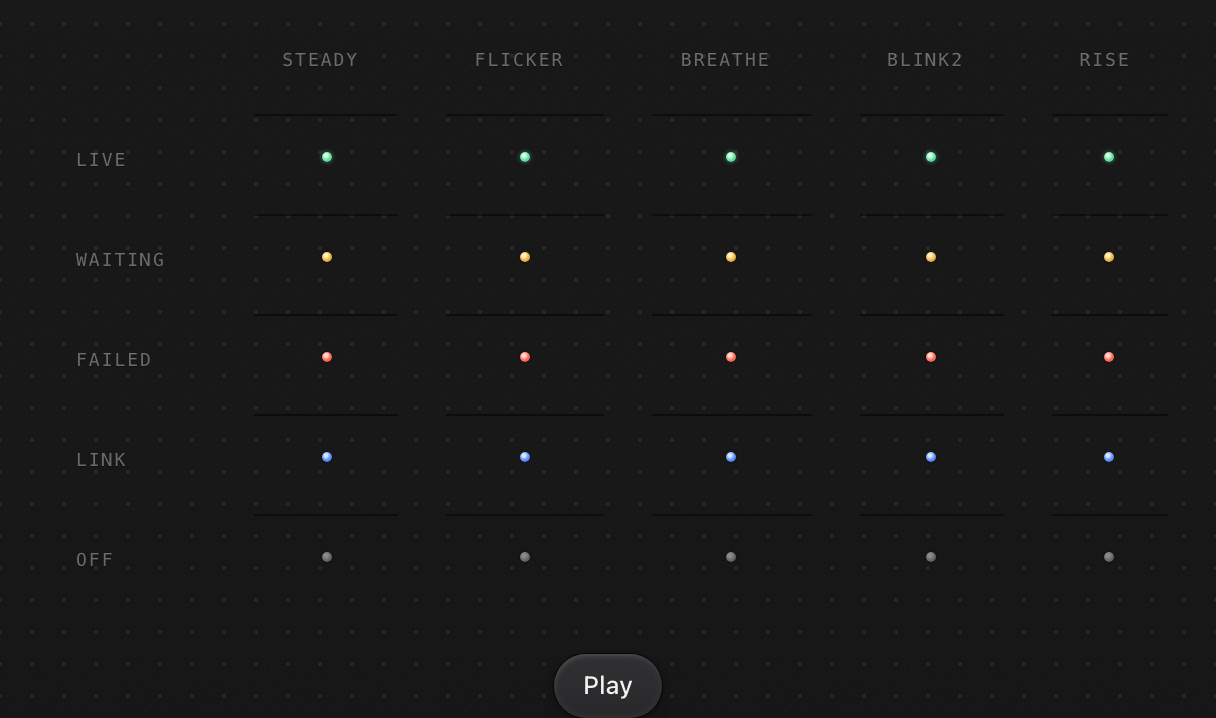
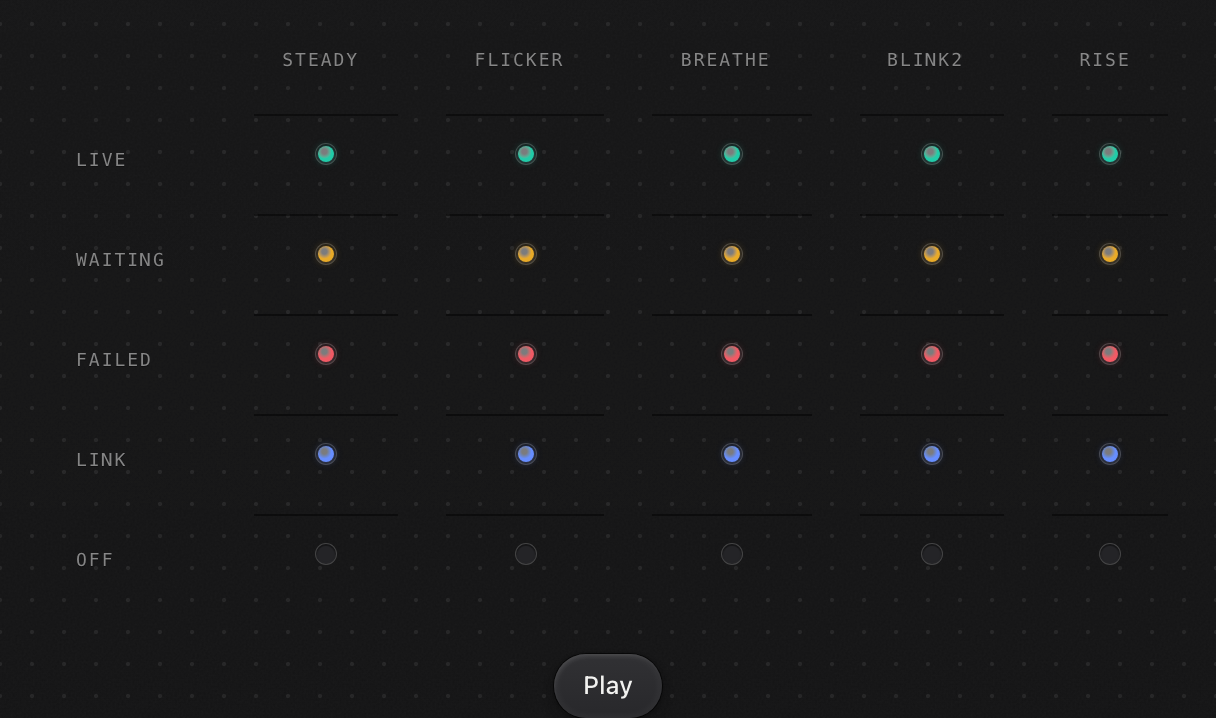
feat(led): sink readable lamps into an opaque socket

diff --git a/swift/Sources/MetalUI/Components/MetalStatus.swift b/swift/Sources/MetalUI/Components/MetalStatus.swift
@@ -25,22 +25,25 @@ public struct MetalLED: View {
     public enum Size: Sendable { case `default`, small }
     let kind: MetalLEDKind
     let size: Size
+    /// Optional outer diameter, including the socket, for a host-specific footprint.
     let diameter: CGFloat?
-    let gesture: MetalLampGesture
-    /// A fixed point in the gesture (0–1), for captures; nil plays it in time.
+    let gesture: MetalLampGesture?
     let phase: Double?
     @Environment(\.accessibilityReduceMotion) private var reduceMotion
+    @Environment(\.scenePhase) private var scenePhase
+    @Environment(\.metalColorway) private var colorway
     @State private var start = Date()
+    @State private var finished = false
+    @State private var visible = false
 
-    public init(_ kind: MetalLEDKind, size: Size = .default, diameter: CGFloat? = nil, gesture: MetalLampGesture = .steady, phase: Double? = nil) {
-        self.kind = kind
-        self.size = size
-        self.diameter = diameter
-        self.gesture = gesture
-        self.phase = phase
+    public init(_ kind: MetalLEDKind, size: Size = .default, diameter: CGFloat? = nil, gesture: MetalLampGesture? = nil, phase: Double? = nil) {
+        self.kind = kind; self.size = size; self.diameter = diameter
+        self.gesture = gesture; self.phase = phase
     }
-
-    /// The lamp's level (0 dark lens … 1 lit) at a point in the gesture.
+    private var motion: MetalLampGesture {
+        if kind == .off { return .steady }
+        return gesture ?? (kind == .waiting ? .breathe : kind == .failed ? .blink2 : .steady)
+    }
     static func level(_ gesture: MetalLampGesture, at progress: Double) -> Double {
         let keys = gesture.keys, p = min(1, max(0, progress))
         guard let hi = keys.firstIndex(where: { $0.0 >= p }), hi > 0 else { return keys.first?.1 ?? 1 }
@@ -49,32 +52,41 @@ public struct MetalLED: View {
         if gesture.eased { f = f * f * (3 - 2 * f) }
         return l0 + (l1 - l0) * f
     }
-
-    /// A dimmed lamp's saturation, and the shade over it: the web's brightness() and saturate() at this level.
     static func saturation(at level: Double) -> Double { MetalLampDim.saturate + (1 - MetalLampDim.saturate) * level }
     static func shade(at level: Double) -> Double { (1 - MetalLampDim.brightness) * (1 - level) }
 
     public var body: some View {
         let recipe = MetalRecipes.status
-        let d = diameter ?? recipe.points(size == .small ? "led.size-small" : "led.size")
-        let still = gesture.duration == 0 || reduceMotion
-        TimelineView(.animation(paused: still || phase != nil)) { context in
+        let bezel = recipe.points("lamp.bezel")
+        let d = diameter ?? recipe.points(size == .small ? "lamp.size-small" : "lamp.size") + bezel * 2
+        let lensSize = max(CGFloat.zero, d - bezel * 2)
+        let ink = recipe.color("ink.\(kind.recipeState)", colorway: MetalRecipeColorway(colorway)) ?? colorway.tokens.ink
+        let still = motion.duration == 0 || reduceMotion || finished
+        TimelineView(.animation(paused: still || phase != nil || !visible || scenePhase != .active)) { context in
             let progress: Double = {
+                if reduceMotion { return 1 }
                 if let phase { return phase }
                 if still { return 1 }
-                let t = context.date.timeIntervalSince(start) / gesture.duration
-                return gesture.loops ? t.truncatingRemainder(dividingBy: 1) : min(1, t)
+                let t = context.date.timeIntervalSince(start) / motion.duration
+                return motion.loops ? t.truncatingRemainder(dividingBy: 1) : min(1, t)
             }()
-            let level = Self.level(gesture, at: progress)
+            let opacity = MetalLampDim.brightness + (1 - MetalLampDim.brightness) * Self.level(motion, at: progress)
             Color.clear
-                .frame(width: d, height: d)
-                .metalObjectRecipe(recipe, part: "led", state: kind.recipeState, in: Circle())
-                .saturation(Self.saturation(at: level))
-                .overlay(Circle().fill(Color.black.opacity(Self.shade(at: level))))
+                .frame(width: lensSize, height: lensSize)
+                .background {
+                    if kind == .off { Circle().fill(ink.color) }
+                    else { Color.clear.metalObjectRecipe(recipe, part: "lamp", in: Circle(), self: ink).opacity(opacity) }
+                }
+                .padding(bezel)
+                .metalObjectRecipe(recipe, part: "socket", in: Circle(), self: recipe.color("ink.off", colorway: MetalRecipeColorway(colorway)))
         }
-        .id("\(kind.recipeState)-\(gesture.rawValue)")
-        .onChange(of: gesture) { start = Date() }
-        .onChange(of: kind.recipeState) { start = Date() }
+        .onAppear { visible = true }
+        .onDisappear { visible = false }
+        .task(id: "\(kind.recipeState)-\(motion.rawValue)-\(reduceMotion)") {
+            start = Date(); finished = false
+            guard motion.duration > 0, !motion.loops, !reduceMotion, phase == nil else { return }
+            do { try await Task.sleep(for: .seconds(motion.duration)); finished = true } catch { }
+        }
         .accessibilityHidden(true)
     }
 }

diff --git a/packages/metalui/src/components/led/led.tsx b/packages/metalui/src/components/led/led.tsx
@@ -2,54 +2,38 @@
 
 import * as React from 'react';
 import { useAwake } from '../../motion/awake';
-
-/* LED (the reference design's .led-*): a tiny lamp lit from the top left that says one state by colour.
- * A part: it never stands alone, it sits beside words (a status badge, a readout, an engraving).
- * Styled with the theme's utilities (the status recipe). */
+import { useReducedMotion } from '../../motion/reduced';
 
 export type LedKind = 'live' | 'waiting' | 'failed' | 'link' | 'off';
-/** How the lamp behaves over time (tokens status.gestures). */
 export type LedGesture = 'steady' | 'flicker' | 'breathe' | 'blink2' | 'rise';
-
 export interface LedProps extends React.HTMLAttributes<HTMLSpanElement> {
   kind: LedKind;
-  /** 5 (default) or 4 (small). */
+  /** Lens diameter 8 (default) or 6 (small), plus a 1px socket on each side. */
   size?: 'default' | 'small';
-  /**
-   * How it behaves over time: steady (default); flicker, a burst of activity that settles on;
-   * breathe, a loop while something is in progress; blink2, two flashes for a failure; rise, coming
-   * on slowly. Changing the gesture plays it again. Reduced motion holds the lamp steady.
-   */
+  /** Defaults to waiting=breathe, failed=blink2, otherwise steady. Off always stays dark. */
   gesture?: LedGesture;
 }
-
-const LED = 'mu-led inline-block flex-none rounded-round';
-const LED_SIZES = {
-  default: 'size-status-led-size',
-  small: 'size-status-led-size-small',
+const GESTURES: Record<LedGesture, string> = {
+  steady: '', flicker: 'animate-led-flicker', breathe: 'animate-led-breathe',
+  blink2: 'animate-led-blink2', rise: 'animate-led-rise',
 };
-const LED_KINDS: Record<LedKind, string> = {
-  live: 'recipe-status-led-live',
-  waiting: 'recipe-status-led recipe-status-led-waiting',
-  failed: 'recipe-status-led recipe-status-led-failed',
-  link: 'recipe-status-led recipe-status-led-link',
-  off: 'recipe-status-led-off',
-};
+const SIZES = { default: 'size-status-lamp-size', small: 'size-status-lamp-size-small' };
 
-const LED_GESTURES: Record<LedGesture, string> = {
-  steady: '',
-  flicker: 'animate-led-flicker',
-  breathe: 'animate-led-breathe',
-  blink2: 'animate-led-blink2',
-  rise: 'animate-led-rise',
-};
-
-/** A tiny lamp, lit from the top left. Decorative: pair it with words. */
-export function Led({ kind, size = 'default', gesture = 'steady', className, style, ...props }: LedProps) {
-  // A breathing lamp loops forever, so it holds still while the tab is hidden or the lamp is scrolled away.
+/** Decorative lens inside an opaque socket. Words beside it carry the state. */
+export function Led({ kind, size = 'default', gesture, className, style, ...props }: LedProps) {
+  const [element, setElement] = React.useState<HTMLSpanElement | null>(null);
+  const reduced = useReducedMotion(element);
   const [watch, awake] = useAwake();
-  const own = `${LED} ${LED_SIZES[size]} ${LED_KINDS[kind]} ${LED_GESTURES[gesture]} reduced-motion:animate-none`;
-  // A new gesture (or a new state with the same gesture) remounts the lamp so the gesture plays again.
-  const looping = gesture === 'breathe';
-  return <span key={`${kind}-${gesture}`} ref={looping ? watch : undefined} aria-hidden data-kind={kind} data-size={size} data-gesture={gesture} className={className ? `${own} ${className}` : own} style={looping && !awake ? { ...style, animationPlayState: 'paused' } : style} {...props} />;
+  const motion = kind === 'off' ? 'steady' : gesture ?? (kind === 'waiting' ? 'breathe' : kind === 'failed' ? 'blink2' : 'steady');
+  const ref = React.useCallback((node: HTMLSpanElement | null) => { setElement(node); watch(node); }, [watch]);
+  const ink = `var(--mu-r-status-ink-${kind})`;
+  return (
+    <span ref={ref} data-mu-self="" aria-hidden data-kind={kind} data-size={size} data-gesture={motion}
+      className={`mu-led inline-flex flex-none rounded-round p-status-lamp-bezel recipe-status-socket ${className ?? ''}`}
+      style={{ '--mu-self': 'var(--mu-r-status-ink-off)', ...style } as React.CSSProperties} {...props}>
+      <span key={`${kind}-${motion}-${reduced}`} data-lamp data-mu-self=""
+        className={`inline-block flex-none rounded-round ${SIZES[size]} ${kind === 'off' ? 'recipe-status-lamp-off' : 'recipe-status-lamp'} ${reduced ? '' : GESTURES[motion]}`}
+        style={{ '--mu-self': ink, animationPlayState: awake ? 'running' : 'paused' } as React.CSSProperties} />
+    </span>
+  );
 }

diff --git a/e2e/led.spec.ts b/e2e/led.spec.ts
@@ -6,7 +6,7 @@ import { COLORWAYS, capture, open } from './helpers';
 const cell = (page: import('@playwright/test').Page, kind: string, gesture: string) =>
   page.locator(`[data-cell="${kind}-${gesture}"] [data-gesture]`);
 const timing = (loc: import('@playwright/test').Locator) =>
-  loc.evaluate((el) => el.getAnimations().map((a) => {
+  loc.evaluate((el) => el.getAnimations({ subtree: true }).map((a) => {
     const t = (a.effect as KeyframeEffect).getTiming();
     return { duration: t.duration, iterations: t.iterations, name: (a as CSSAnimation).animationName };
   }));
@@ -27,9 +27,9 @@ test('Play runs a finished gesture again', async ({ page }) => {
   await open(page, '/components/led', 'graphite');
   const flicker = cell(page, 'live', 'flicker');
   await page.waitForTimeout(900);
-  expect(await flicker.evaluate((el) => el.getAnimations()[0]?.playState)).toBe('finished');
+  expect(await flicker.evaluate((el) => el.getAnimations({ subtree: true })[0]?.playState)).toBe('finished');
   await page.getByTestId('led-play').click();
-  expect(await cell(page, 'live', 'flicker').evaluate((el) => el.getAnimations()[0]?.playState)).toBe('running');
+  expect(await cell(page, 'live', 'flicker').evaluate((el) => el.getAnimations({ subtree: true })[0]?.playState)).toBe('running');
 });
 
 test('reduced motion holds every lamp steady and keeps its kind', async ({ page }) => {
@@ -46,3 +46,19 @@ for (const colorway of COLORWAYS) {
     await page.getByTestId('led-gestures').screenshot({ path: capture(`led-gestures-${colorway}`) });
   });
 }
+
+test('socket stays opaque while only the lens dims, including scoped reduction', async ({ page }) => {
+  await open(page, '/components/led', 'bone');
+  const lamp = cell(page, 'waiting', 'breathe');
+  const layers = await lamp.evaluate(el => ({
+    width: el.getBoundingClientRect().width,
+    socket: (() => { const c = document.createElement('canvas').getContext('2d')!; c.fillStyle = getComputedStyle(el).backgroundColor; c.fillRect(0, 0, 1, 1); return [...c.getImageData(0, 0, 1, 1).data]; })(),
+    lens: el.querySelector('[data-lamp]')!.getBoundingClientRect().width,
+    filter: getComputedStyle(el.querySelector('[data-lamp]')!).filter,
+  }));
+  expect(layers).toEqual({ width: 10, socket: [36, 36, 39, 255], lens: 8, filter: 'none' });
+  await page.getByTestId('led-gestures').evaluate(el => el.setAttribute('data-mu-motion', 'reduce'));
+  await expect.poll(() => timing(lamp)).toEqual([]);
+  await expect(lamp.locator('[data-lamp]')).toHaveCSS('opacity', '1');
+  await expect(cell(page, 'off', 'steady').locator('[data-lamp]')).toHaveCSS('box-shadow', 'none');
+});

diff --git a/packages/metalui/src/components/theme.css b/packages/metalui/src/components/theme.css
@@ -3776,42 +3776,42 @@
 
 /* Lamp gestures (status.gestures): how an LED behaves over time. */
 @keyframes mu-led-flicker {
-  0% { filter: brightness(0.864) saturate(0.901); }
-  10% { filter: brightness(1) saturate(1); }
-  22% { filter: brightness(0.69) saturate(0.775); }
-  34% { filter: brightness(1) saturate(1); }
-  46% { filter: brightness(0.764) saturate(0.829); }
-  60% { filter: brightness(1) saturate(1); }
-  100% { filter: brightness(1) saturate(1); }
+  0% { opacity: 0.864; }
+  10% { opacity: 1; }
+  22% { opacity: 0.69; }
+  34% { opacity: 1; }
+  46% { opacity: 0.764; }
+  60% { opacity: 1; }
+  100% { opacity: 1; }
 }
 @utility animate-led-flicker {
   animation: mu-led-flicker 800ms linear both;
 }
 @keyframes mu-led-breathe {
-  0% { filter: brightness(0.721) saturate(0.798); }
-  50% { filter: brightness(1) saturate(1); }
-  100% { filter: brightness(0.721) saturate(0.798); }
+  0% { opacity: 0.721; }
+  50% { opacity: 1; }
+  100% { opacity: 0.721; }
 }
 @utility animate-led-breathe {
   animation: mu-led-breathe 2400ms ease-in-out infinite;
 }
 @keyframes mu-led-blink2 {
-  0% { filter: brightness(1) saturate(1); }
-  19% { filter: brightness(1) saturate(1); }
-  20% { filter: brightness(0.535) saturate(0.663); }
-  50% { filter: brightness(0.535) saturate(0.663); }
-  51% { filter: brightness(1) saturate(1); }
-  70% { filter: brightness(1) saturate(1); }
-  71% { filter: brightness(0.535) saturate(0.663); }
-  99% { filter: brightness(0.535) saturate(0.663); }
-  100% { filter: brightness(1) saturate(1); }
+  0% { opacity: 1; }
+  19% { opacity: 1; }
+  20% { opacity: 0.535; }
+  50% { opacity: 0.535; }
+  51% { opacity: 1; }
+  70% { opacity: 1; }
+  71% { opacity: 0.535; }
+  99% { opacity: 0.535; }
+  100% { opacity: 1; }
 }
 @utility animate-led-blink2 {
   animation: mu-led-blink2 460ms linear both;
 }
 @keyframes mu-led-rise {
-  0% { filter: brightness(0.38) saturate(0.55); }
-  100% { filter: brightness(1) saturate(1); }
+  0% { opacity: 0.38; }
+  100% { opacity: 1; }
 }
 @utility animate-led-rise {
   animation: mu-led-rise 1200ms cubic-bezier(.22,1,.36,1) both;

diff --git a/packages/metalui/public/AI.md b/packages/metalui/public/AI.md
@@ -1925,21 +1925,21 @@ A tiny lamp lit from the top left that says one state by colour. React: `Led` fr
 | link | blue | points somewhere else |
 | off | grey | idle |
 
-Sizes: 5 (default) and 4 (small, in dense readouts).
+Lens sizes: 8 (default) and 6 (small). An opaque #242427 socket adds 1 on each side: total footprints 10 and 8. Every lit kind has the same soft halo; off is a dull, unlit socket. Shared inks are in `recipes.status.props.ink`; measured contrast and colour-vision limitations are in `docs/STATUS-COLORS.md`.
 
 ## Gestures
 
-How the lamp behaves over time (tokens `status.gestures`). A gesture dims and brightens the lamp's glow; it never fades the lamp away.
+How the lamp behaves over time (tokens `status.gestures`). Only the inner lens and halo animate opacity, down to the shared dim level. The opaque socket never fades. Waiting breathes by default; failure double-blinks once; live and link hold steady; off stays dark.
 
 | Gesture | Behaviour | Use it for |
 |---|---|---|
-| steady | holds | the default: a state that simply is |
+| steady | holds | live or link: a state that simply is |
 | flicker | one burst of activity (0.8 s), then on | something just happened: a sync finished, a value arrived |
 | breathe | a slow loop (2.4 s) | something in progress: syncing, searching |
 | blink2 | two sharp flashes, then on | a failure, once; never repeat it |
 | rise | comes on slowly (1.2 s) | a first start, a machine waking |
 
-Reduced motion holds every gesture at its final level, so the colour still says the state. Changing the gesture, or the kind, plays it again.
+Reduced motion (OS, html.rm or scoped data-mu-motion=reduce) holds every gesture at its final level. Words still identify the state. Offscreen and hidden web lamps pause; native lamps stop their frame clock while inactive or absent, and after a finite gesture completes. Changing the gesture, or the kind, plays it again.
 
 ## API
 

diff --git a/packages/metalui/public/r/led.md b/packages/metalui/public/r/led.md
@@ -21,21 +21,21 @@ A tiny lamp lit from the top left that says one state by colour. React: `Led` fr
 | link | blue | points somewhere else |
 | off | grey | idle |
 
-Sizes: 5 (default) and 4 (small, in dense readouts).
+Lens sizes: 8 (default) and 6 (small). An opaque #242427 socket adds 1 on each side: total footprints 10 and 8. Every lit kind has the same soft halo; off is a dull, unlit socket. Shared inks are in `recipes.status.props.ink`; measured contrast and colour-vision limitations are in `docs/STATUS-COLORS.md`.
 
 ## Gestures
 
-How the lamp behaves over time (tokens `status.gestures`). A gesture dims and brightens the lamp's glow; it never fades the lamp away.
+How the lamp behaves over time (tokens `status.gestures`). Only the inner lens and halo animate opacity, down to the shared dim level. The opaque socket never fades. Waiting breathes by default; failure double-blinks once; live and link hold steady; off stays dark.
 
 | Gesture | Behaviour | Use it for |
 |---|---|---|
-| steady | holds | the default: a state that simply is |
+| steady | holds | live or link: a state that simply is |
 | flicker | one burst of activity (0.8 s), then on | something just happened: a sync finished, a value arrived |
 | breathe | a slow loop (2.4 s) | something in progress: syncing, searching |
 | blink2 | two sharp flashes, then on | a failure, once; never repeat it |
 | rise | comes on slowly (1.2 s) | a first start, a machine waking |
 
-Reduced motion holds every gesture at its final level, so the colour still says the state. Changing the gesture, or the kind, plays it again.
+Reduced motion (OS, html.rm or scoped data-mu-motion=reduce) holds every gesture at its final level. Words still identify the state. Offscreen and hidden web lamps pause; native lamps stop their frame clock while inactive or absent, and after a finite gesture completes. Changing the gesture, or the kind, plays it again.
 
 ## API
 

diff --git a/packages/metalui/src/components/led/led.agent.md b/packages/metalui/src/components/led/led.agent.md
@@ -21,21 +21,21 @@ A tiny lamp lit from the top left that says one state by colour. React: `Led` fr
 | link | blue | points somewhere else |
 | off | grey | idle |
 
-Sizes: 5 (default) and 4 (small, in dense readouts).
+Lens sizes: 8 (default) and 6 (small). An opaque #242427 socket adds 1 on each side: total footprints 10 and 8. Every lit kind has the same soft halo; off is a dull, unlit socket. Shared inks are in `recipes.status.props.ink`; measured contrast and colour-vision limitations are in `docs/STATUS-COLORS.md`.
 
 ## Gestures
 
-How the lamp behaves over time (tokens `status.gestures`). A gesture dims and brightens the lamp's glow; it never fades the lamp away.
+How the lamp behaves over time (tokens `status.gestures`). Only the inner lens and halo animate opacity, down to the shared dim level. The opaque socket never fades. Waiting breathes by default; failure double-blinks once; live and link hold steady; off stays dark.
 
 | Gesture | Behaviour | Use it for |
 |---|---|---|
-| steady | holds | the default: a state that simply is |
+| steady | holds | live or link: a state that simply is |
 | flicker | one burst of activity (0.8 s), then on | something just happened: a sync finished, a value arrived |
 | breathe | a slow loop (2.4 s) | something in progress: syncing, searching |
 | blink2 | two sharp flashes, then on | a failure, once; never repeat it |
 | rise | comes on slowly (1.2 s) | a first start, a machine waking |
 
-Reduced motion holds every gesture at its final level, so the colour still says the state. Changing the gesture, or the kind, plays it again.
+Reduced motion (OS, html.rm or scoped data-mu-motion=reduce) holds every gesture at its final level. Words still identify the state. Offscreen and hidden web lamps pause; native lamps stop their frame clock while inactive or absent, and after a finite gesture completes. Changing the gesture, or the kind, plays it again.
 
 ## API
 
